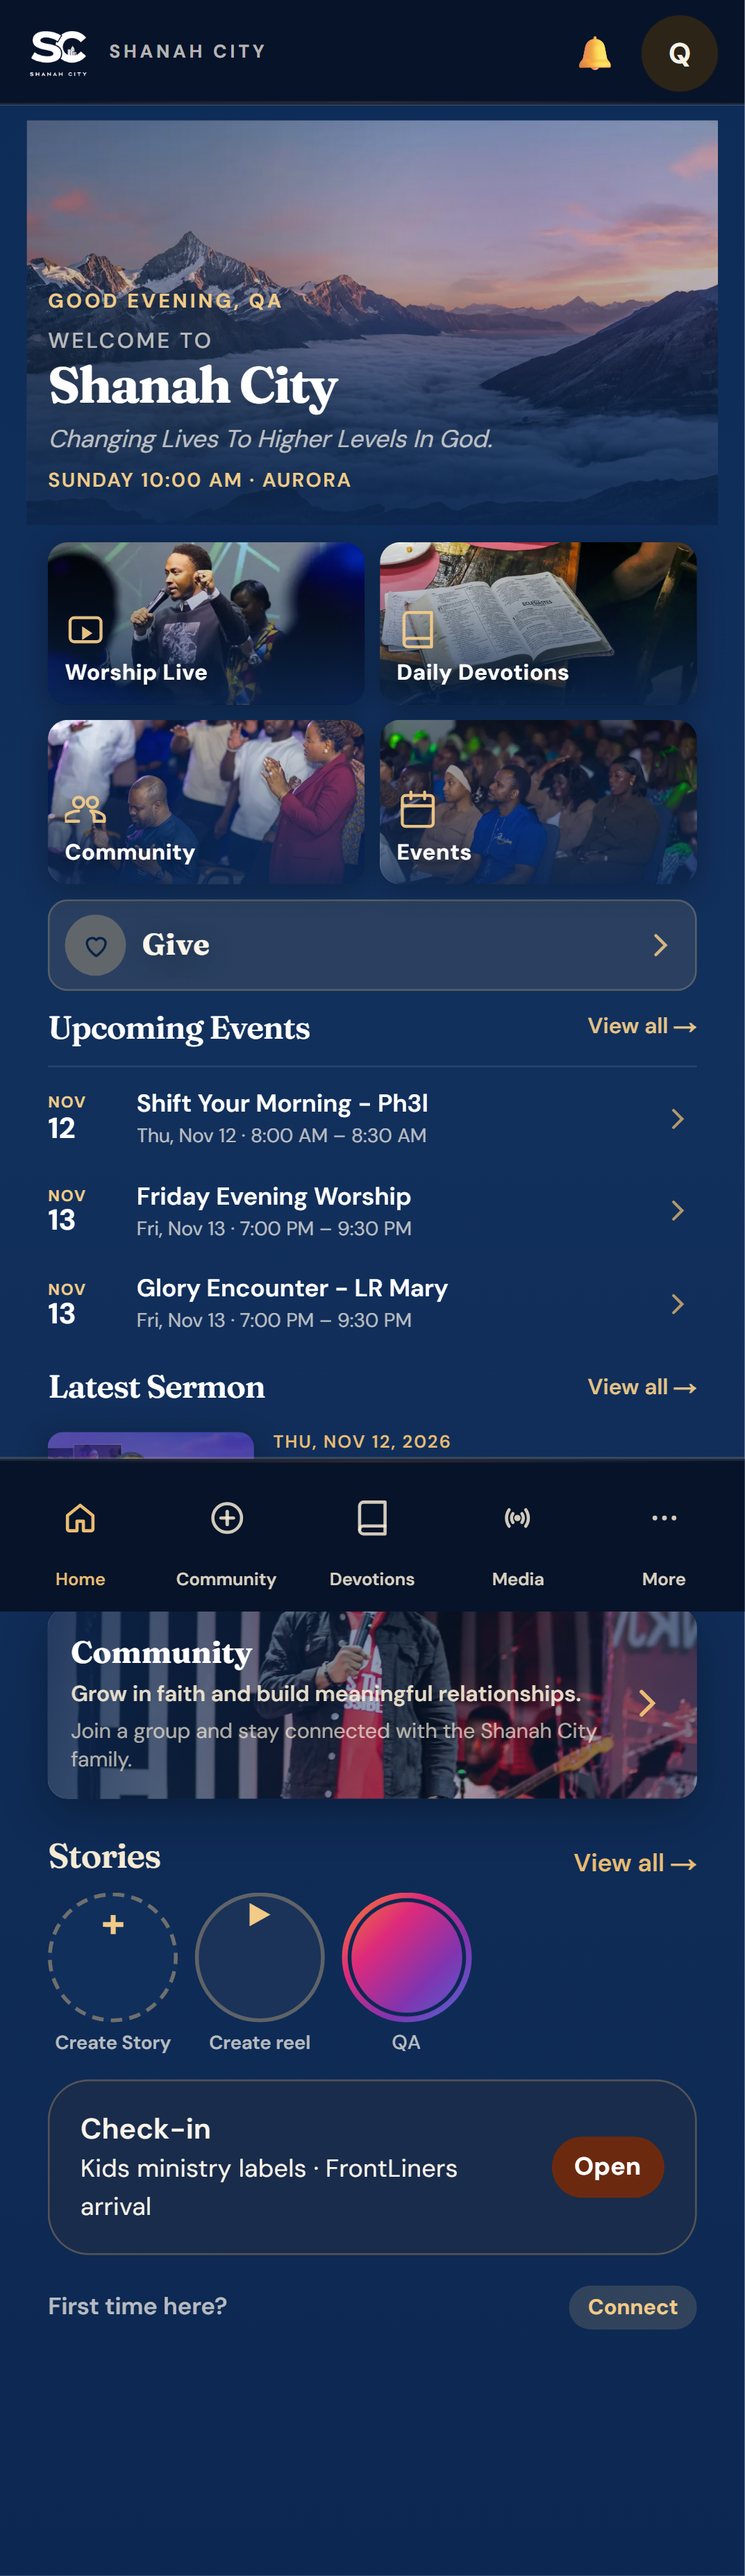
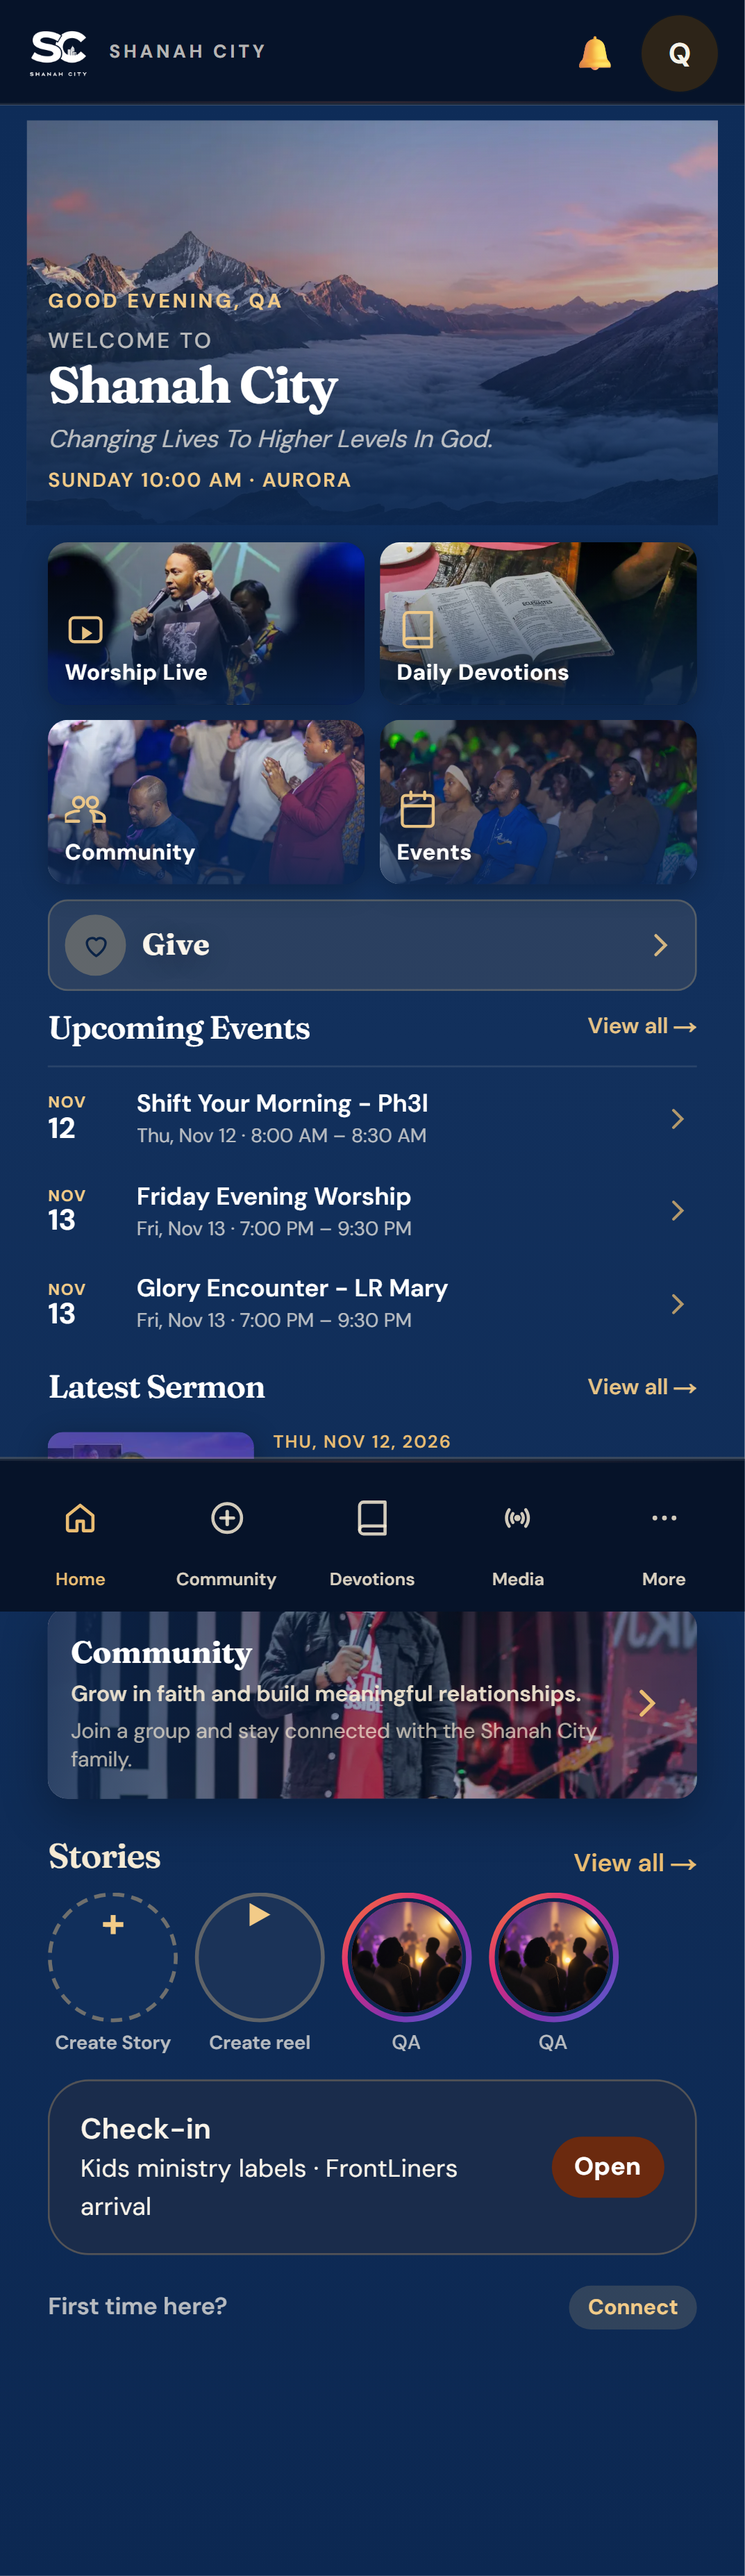
fix(home v2): show photo in story ring and verify viewer
Prefer the newest image status for portrait/v6 deck rings when preview is video, seed a peer photo story in QA fixtures, and extend signed-in Playwright captures for photo ring and viewer at 390x844 and 430x932.

Changed region(s): [[0.6459, 0.7129, 0.8304, 0.8059], [0.4613, 0.7129, 0.6151, 0.8059]]

diff --git a/e2e/premium-home-v2-mobile.spec.ts b/e2e/premium-home-v2-mobile.spec.ts
@@ -128,6 +128,49 @@ test.describe("Premium Home V2 mobile screenshots (signed-in)", () => {
 
       const stories = page.locator(".premium-stories--home-v2").first();
       await stories.scrollIntoViewIfNeeded();
+
+      await page.waitForResponse(
+        (res) => res.url().includes("/api/community/statuses") && res.ok(),
+        { timeout: 90_000 },
+      );
+      await expect
+        .poll(() => page.locator(".community-portrait-story-card--story").count(), { timeout: 90_000 })
+        .toBeGreaterThan(0);
+
+      await expect(page.locator(".community-portrait-story-card--reel")).toBeVisible();
+      await expect(page.locator(".community-portrait-story-card--create")).toBeVisible();
+
+      const imageStory = page
+        .locator(
+          ".premium-stories--home-v2 .community-portrait-story-card--story:has(.community-portrait-story-card__media img)",
+        )
+        .first();
+      await expect(imageStory).toBeVisible({ timeout: 90_000 });
+      const storyImg = imageStory.locator(".community-portrait-story-card__media img").first();
+      await expect
+        .poll(async () => storyImg.evaluate((img: HTMLImageElement) => img.naturalWidth), { timeout: 30_000 })
+        .toBeGreaterThan(48);
+      await expect(imageStory.locator(".community-portrait-story-card__fallback")).toHaveCount(0);
+      const mediaRing = imageStory.locator(".community-portrait-story-card__media").first();
+      await expect.poll(async () => {
+        const box = await mediaRing.boundingBox();
+        if (!box) return 999;
+        return Math.abs(box.width - box.height);
+      }).toBeLessThan(6);
+
+      await imageStory.screenshot({
+        path: path.join(artifactDir, `premium-home-v2-story-photo-ring-${vp.tag}.png`),
+      });
+
+      await imageStory.click();
+      await expect(page.locator(".community-story-viewer").first()).toBeVisible({ timeout: 20_000 });
+      await page.screenshot({
+        path: path.join(artifactDir, `premium-home-v2-story-photo-viewer-${vp.tag}.png`),
+        fullPage: false,
+      });
+      await page.keyboard.press("Escape");
+      await expect(page.locator(".community-story-viewer")).toHaveCount(0, { timeout: 10_000 });
+
       await stories.screenshot({
         path: path.join(artifactDir, `premium-home-v2-stories-signed-in-${vp.tag}.png`),
       });

diff --git a/src/components/community/CommunityStatusRow.tsx b/src/components/community/CommunityStatusRow.tsx
@@ -29,6 +29,7 @@ import {
   findDeckIndex,
   loadSeenStoryIds,
   markStoriesSeen,
+  storyDeckRingPreview,
 } from "@/lib/community-story-utils";
 import { normalizeStorySocialLink } from "@/lib/community-story-link-shared";
 import { CommunityStorySoundtrackPicker } from "@/components/community/CommunityStorySoundtrackPicker";
@@ -865,12 +866,16 @@ export function CommunityStatusRow({
               />
               {otherDecks.map((deck) => {
                 const deckIndex = findDeckIndex(decks, deck.authorId);
+                const ringPreview =
+                  presentation === "portrait" || presentation === "v6"
+                    ? storyDeckRingPreview(deck)
+                    : deck.previewItem;
                 return (
                   <CommunityPortraitStoryCard
                     key={deck.authorId}
                     authorName={deck.authorName}
                     authorId={deck.authorId}
-                    preview={deck.previewItem}
+                    preview={ringPreview}
                     hasUnseen={deck.hasUnseen}
                     label={deck.authorName.split(" ")[0] ?? deck.authorName}
                     variant="story"

diff --git a/src/lib/community-story-utils.ts b/src/lib/community-story-utils.ts
@@ -164,3 +164,11 @@ export function buildStoryDecks(
 export function findDeckIndex(decks: StoryDeck[], authorId: string) {
   return decks.findIndex((deck) => deck.authorId === authorId);
 }
+
+/** Ring thumbnails prefer the newest image slide when a deck also has video/text. */
+export function storyDeckRingPreview(deck: StoryDeck): CommunityStatus {
+  const imageItem = [...deck.items]
+    .reverse()
+    .find((item) => item.mediaType === "image" && item.mediaUrl?.trim());
+  return imageItem ?? deck.previewItem;
+}

diff --git a/docs/premium-home-v2-screenshots/README.md b/docs/premium-home-v2-screenshots/README.md
@@ -12,6 +12,6 @@ PREMIUM_V4_QA_CLEANUP_CONFIRMED=YES npx tsx scripts/premium-v4-community-qa-clea
 
 See [VISUAL_REVIEW.md](./VISUAL_REVIEW.md) for baseline comparison notes.
 
-Artifacts: full mobile, header, hero, tiles, events, stories, sermon, and viewport captures.
+Artifacts: full mobile, header, hero, tiles, events, stories (including `premium-home-v2-story-photo-ring-*` and `premium-home-v2-story-photo-viewer-*`), sermon, and viewport captures.
 
 Do not merge or deploy from this folder alone — owner visual review required.
